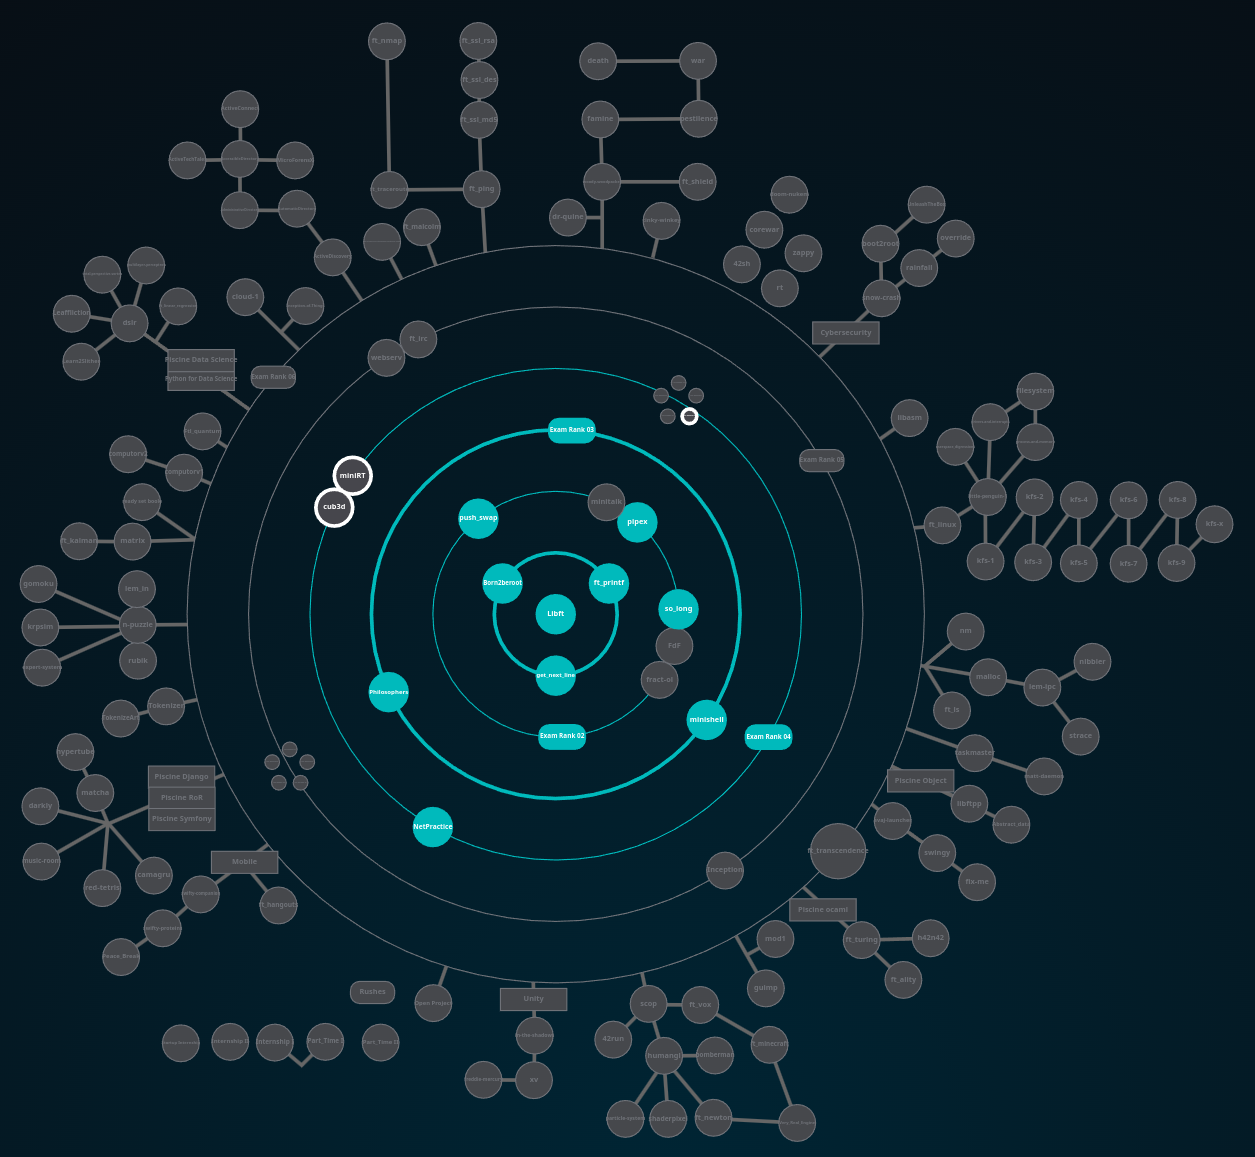
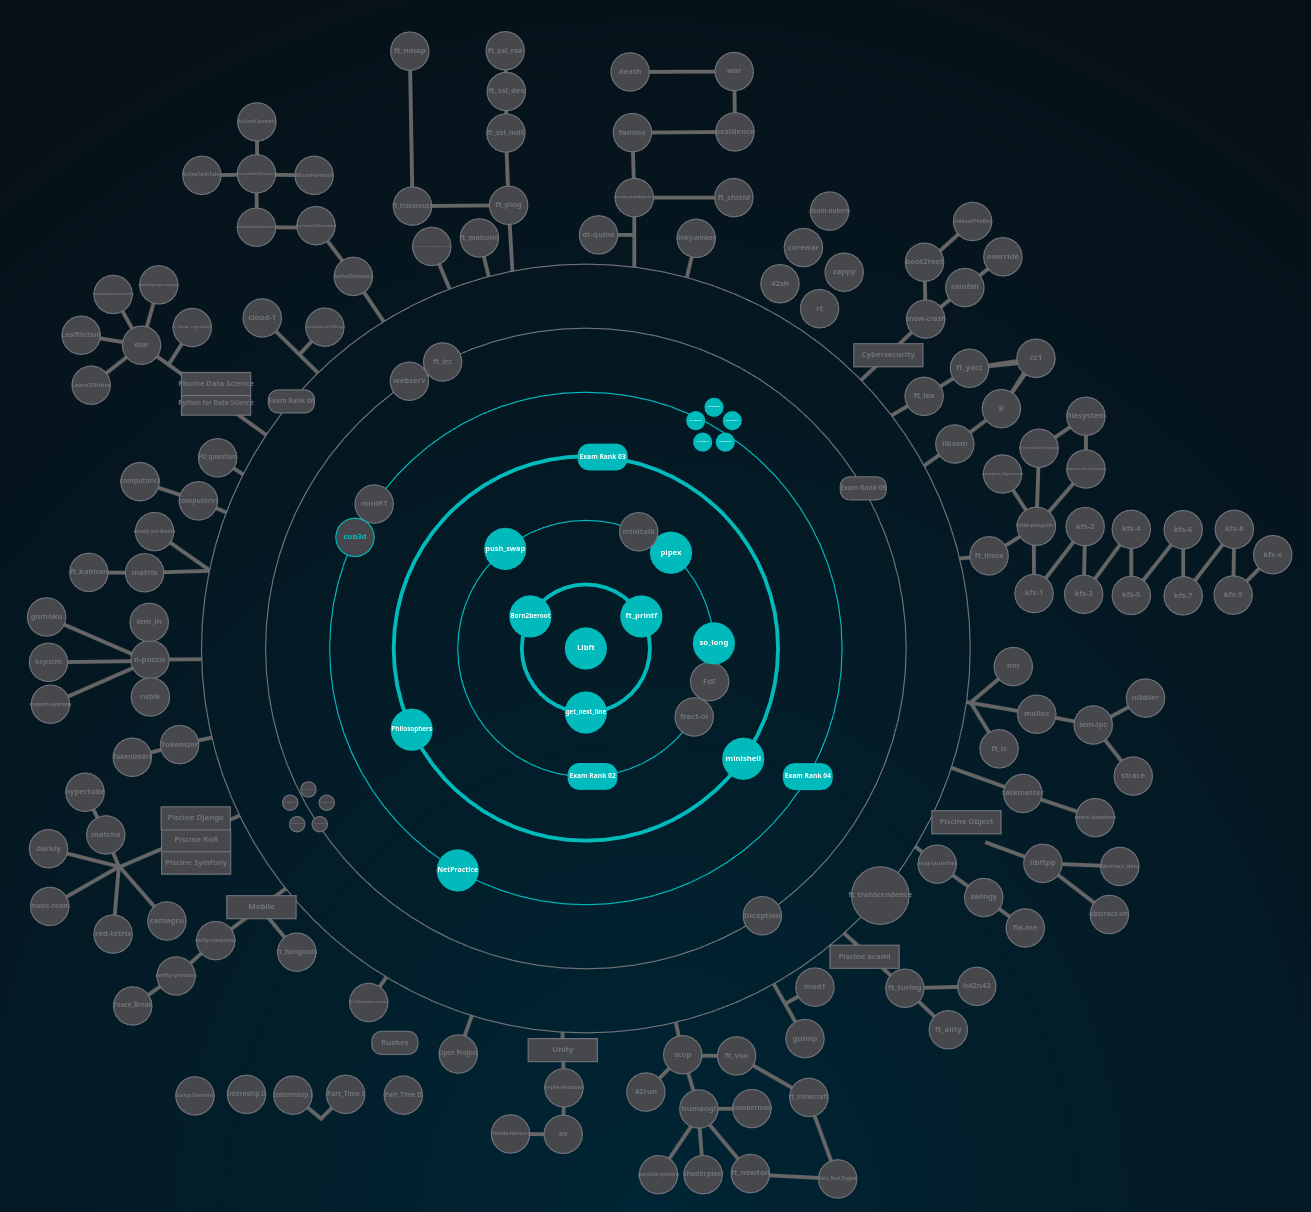
Added CPP 00-04 Modules. Updated Holygraph

diff --git a/README.md b/README.md
@@ -21,4 +21,5 @@ This is my current progress on the 42Madrid Cursus
 | [Exam Rank 03](/lvl3/exam_rank_03)                 | **100/100** |
 | [NetPractice](/lvl4/NetPractice)                   | **100/100** |
 | [Exam Rank 04](/lvl4/exam_rank_04)                 | **100/100** |
-| [CPP Module](/lvl4/CPP_Module)                     | **in progress** |
+| [CPP Module](/lvl4/CPP_Module)                     | **500/500** |
+| [Cub3D](https://github.com/BishopVK/Cub3D)         | **in progress** |
